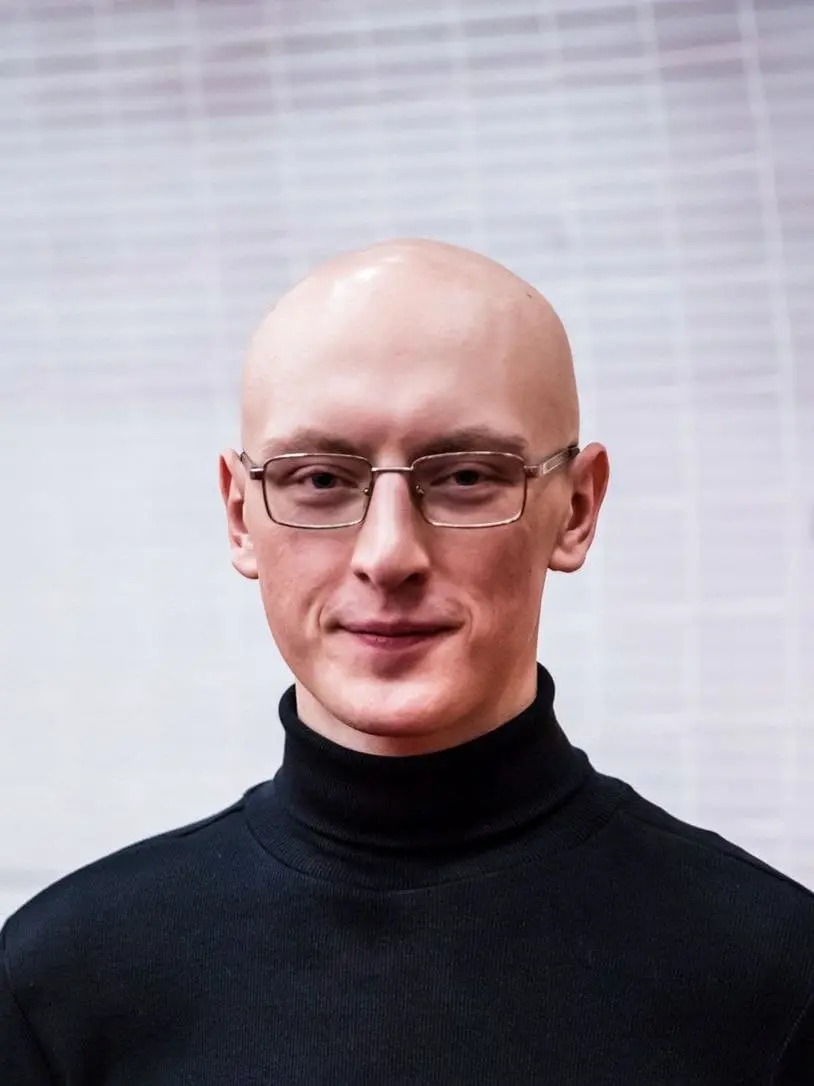
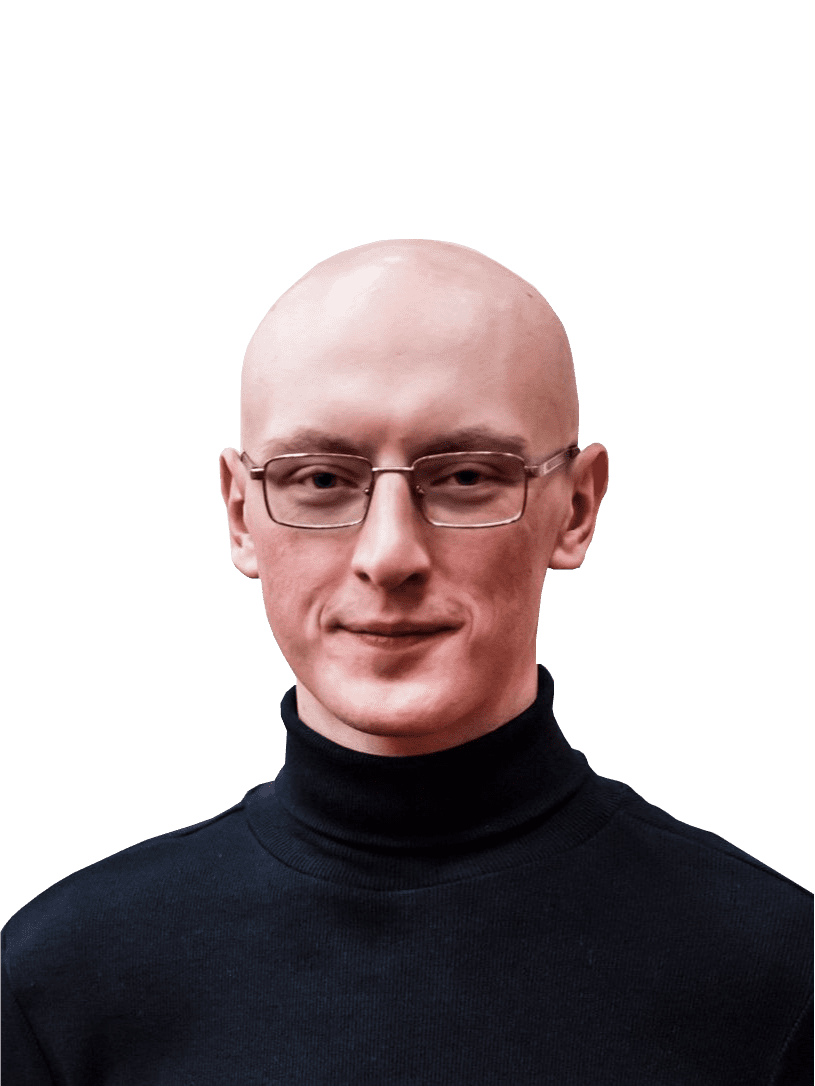
feat: improve image hero

diff --git a/index.html b/index.html
@@ -68,7 +68,7 @@
       href="https://cdnjs.cloudflare.com/ajax/libs/font-awesome/6.2.1/css/all.min.css"
     />
   </head>
-  <body>
+  <body class="dark">
     <div class="wrapper">
       <aside class="aside">
         <div class="logo">
@@ -87,33 +87,35 @@
         <div class="nav-toggler">
           <span></span>
         </div>
-        <ul class="nav">
-          <li>
-            <a aria-label="home" href="#home" class="active"
-              ><i class="fa fa-home"></i>Home</a
-            >
-          </li>
-          <li>
-            <a aria-label="about" href="#about"
-              ><i class="fa fa-user"></i>About</a
-            >
-          </li>
-          <li>
-            <a aria-label="services" href="#services"
-              ><i class="fa fa-list"></i>Services</a
-            >
-          </li>
-          <li>
-            <a aria-label="portfolio" href="#portfolio"
-              ><i class="fa fa-briefcase"></i>Portfolio</a
-            >
-          </li>
-          <li>
-            <a aria-label="contact" href="#contact"
-              ><i class="fa fa-comments"></i>Contact</a
-            >
-          </li>
-        </ul>
+        <nav class="nav">
+          <ul>
+            <li>
+              <a aria-label="home" href="#home" class="active"
+                ><i class="fa fa-home"></i>Home</a
+              >
+            </li>
+            <li>
+              <a aria-label="about" href="#about"
+                ><i class="fa fa-user"></i>About</a
+              >
+            </li>
+            <li>
+              <a aria-label="services" href="#services"
+                ><i class="fa fa-list"></i>Services</a
+              >
+            </li>
+            <li>
+              <a aria-label="portfolio" href="#portfolio"
+                ><i class="fa fa-briefcase"></i>Portfolio</a
+              >
+            </li>
+            <li>
+              <a aria-label="contact" href="#contact"
+                ><i class="fa fa-comments"></i>Contact</a
+              >
+            </li>
+          </ul>
+        </nav>
       </aside>
       <main class="main">
         <section class="home section" id="home">
@@ -151,7 +153,7 @@
               <div class="home-img padd-15">
                 <picture>
                   <source srcset="images/hero.webp" type="image/webp" />
-                  <img src="images/hero.jpg" alt="hero" />
+                  <img src="images/hero.png" alt="hero" />
                 </picture>
               </div>
             </div>
@@ -683,11 +685,7 @@
               </div>
               <div class="portfolio-item padd-15">
                 <div class="portfolio-item-inner shadow-dark">
-                  <div
-                    target="_blank"
-                    href="https://romanchuchev.github.io/meal-db/"
-                    class="portfolio-img"
-                  >
+                  <div class="portfolio-img">
                     <picture>
                       <source
                         srcset="./images/portfolio/meal.webp"
@@ -902,7 +900,7 @@
         <i class="fas fa-cog fa-spin"></i>
       </div>
       <div class="day-night s-icon">
-        <i class="fas fa-moon"></i>
+        <i class="fas fa-sun"></i>
       </div>
       <h4>Theme Colors</h4>
       <div class="colors">

diff --git a/css/style.css b/css/style.css
@@ -1,5 +1,6 @@
 :root {
   --bg-black-900: #f2f2fc;
+  --bg-black-700: #eaeaf7;
   --bg-black-100: #fdf9ff;
   --bg-black-50: #e8dfec;
   --text-black-900: #302e4d;
@@ -8,6 +9,7 @@
 
 body.dark {
   --bg-black-900: #151515;
+  --bg-black-700: #191919;
   --bg-black-100: #222222;
   --bg-black-50: #393939;
   --text-black-900: #ffffff;
@@ -482,7 +484,10 @@ h2.my-profession {
 }
 
 .home-img img {
+  border: 2px solid var(--skin-color);
   position: relative;
+  background: var(--bg-black-700);
+  transition: background 0.3s ease;
 }
 
 .home-img::after {

diff --git a/css/skins/color-1.css b/css/skins/color-1.css
@@ -1,3 +1,3 @@
 :root {
-    --skin-color: #ec1839;
+  --skin-color: #ec1839;
 }

diff --git a/css/skins/color-2.css b/css/skins/color-2.css
@@ -1,3 +1,3 @@
 :root {
-  --skin-color: #fa5b0f;
+  --skin-color: #ff4400;
 }
